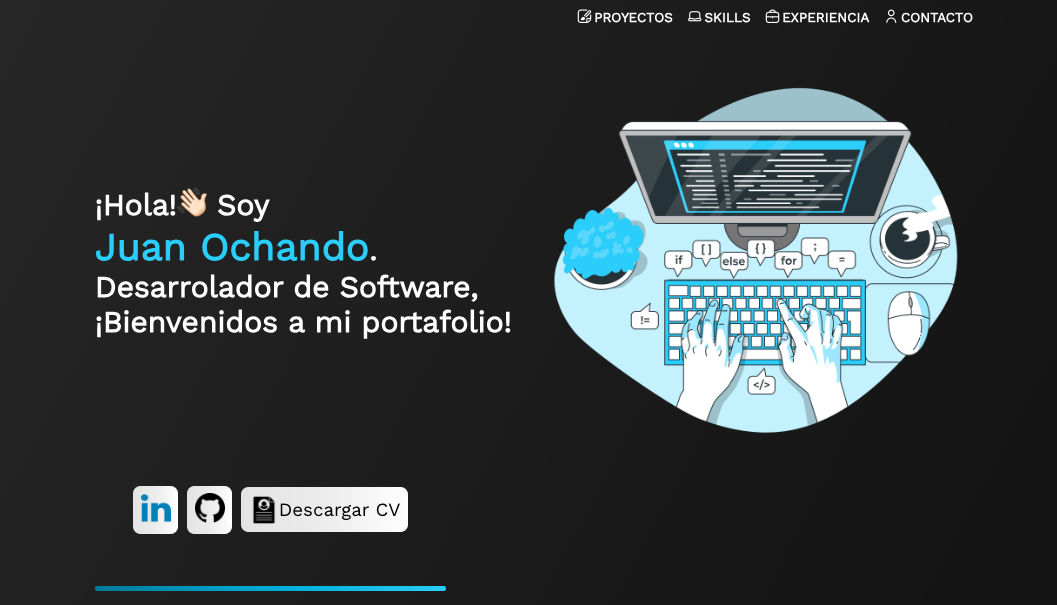
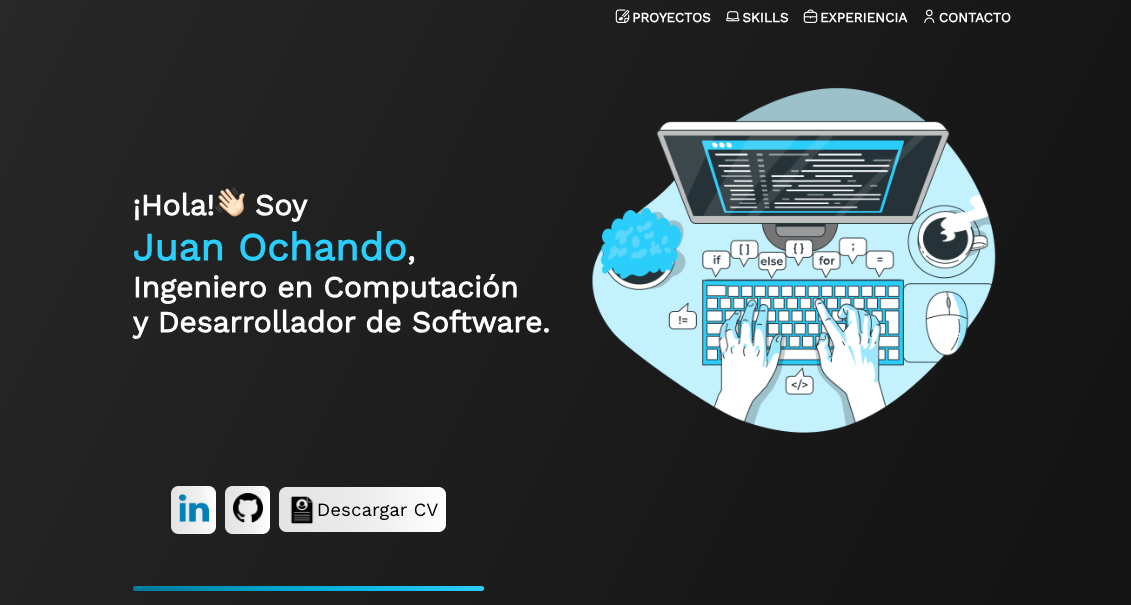
v1

diff --git a/src/components/body/about/index.js b/src/components/body/about/index.js
@@ -7,8 +7,9 @@ function About() {
     <div className="about">
       <div className="about-top">
         <div className="about-info">
-          ¡Hola!👋🏻 Soy <br /> <span className="info-name">Juan Ochando</span>. <br /> Desarrolador de Software,
-          <br /> ¡Bienvenidos a mi portafolio!
+          ¡Hola!👋🏻 Soy <br /> <span className="info-name">Juan Ochando</span>, <br />
+          Ingeniero en Computación
+          <br />y Desarrollador de Software.
         </div>
         <div className="about-photo">
           <img src={require("../../../assets/coding.png")} className="picture" alt="coding" />

diff --git a/src/components/data/projects.js b/src/components/data/projects.js
@@ -137,7 +137,7 @@ export const ProjectsData = [
       {
         icon: "fi fi-brands-github",
         name: "Github",
-        link: "https://github.com/iOchando/frontend_miplanificacion",
+        link: "https://github.com/iOchando/portfolio_react",
       },
     ],
   },
